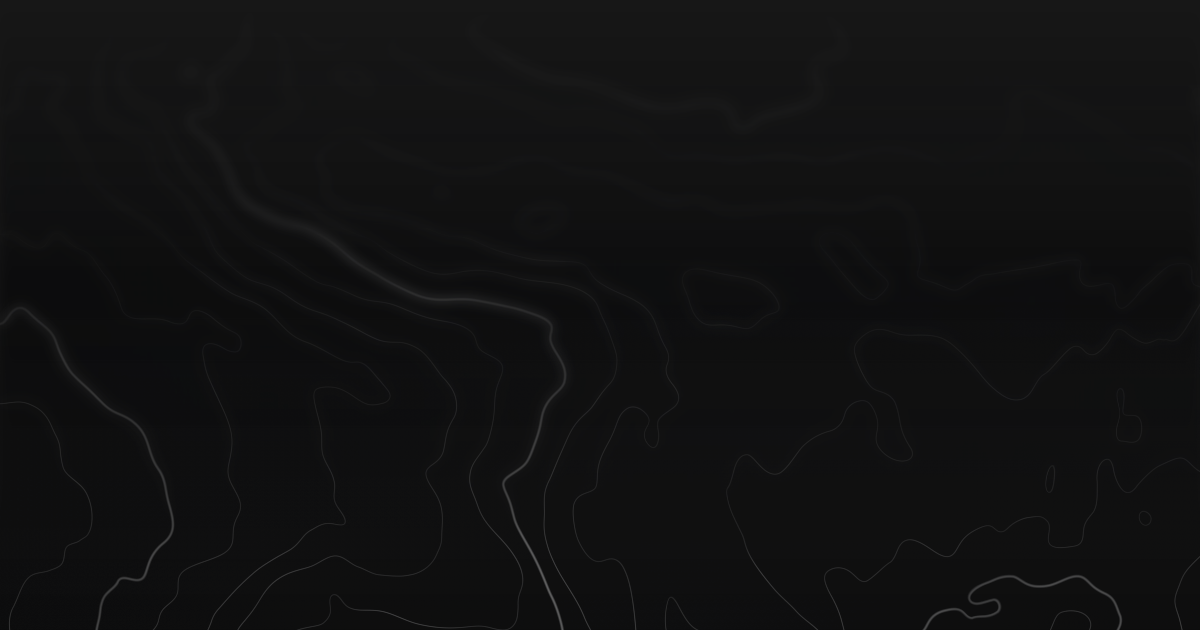
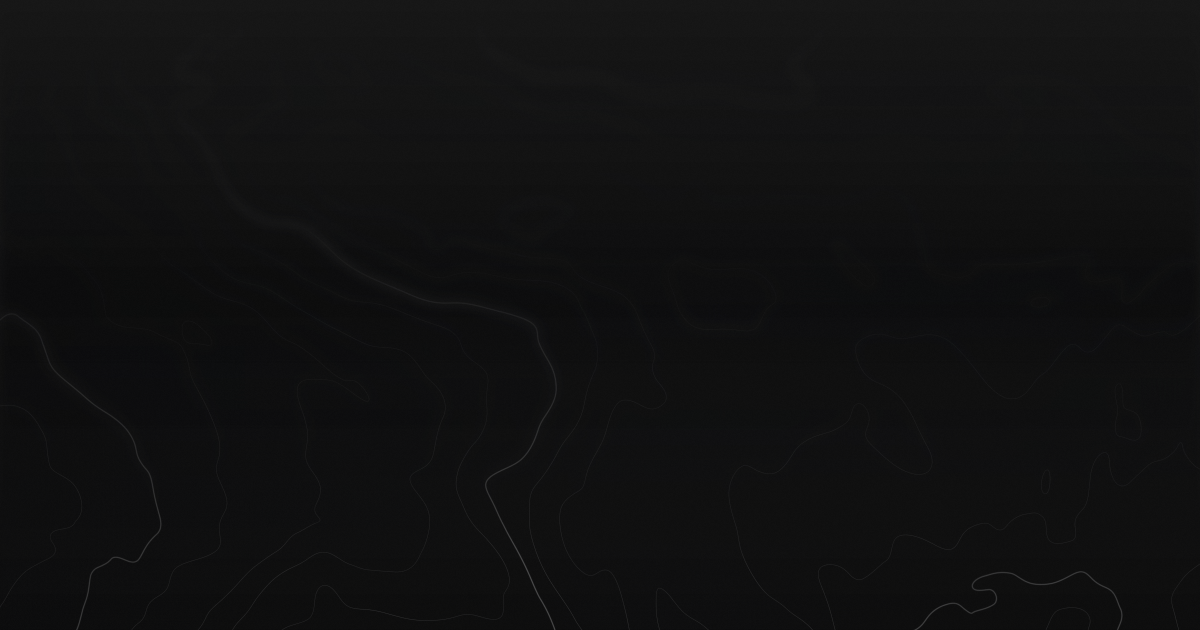
Dither the social cards, set the course card level, drop the dotted frame
- The ground is captured at 2×, each 2×2 block averaged in full precision and rounded with triangular noise, so the blur and fades grain instead of banding; Takumi renders lossless WebP with Floyd–Steinberg dithering over it
- The course card sits level, lit and lifted; the grid's dotted frame is gone

diff --git a/apps/web/src/components/og/dojo-og.tsx b/apps/web/src/components/og/dojo-og.tsx
@@ -3,8 +3,8 @@ import type { ReactNode } from "react";
 /*
  * Dojo.foo's social cards (Takumi): a title over its description, in the site's Inter, on the footer's
  * contour map under a glass-like fade, the logo at the top. A course's card brings the course itself: its color card
- * as the course page shows it, lifted and leaning as if the pointer were over it. Takumi draws flat (no perspective),
- * so the lean is a turn and a skew, the lift a deeper shadow.
+ * as the course page shows it, level and lifted as if the pointer were over it: lit from the top left (a sheen, its rims
+ * catching the light there and in shade below), its edge showing under it, a deep shadow.
  */
 
 export const OG = { width: 1200, height: 630 } as const;
@@ -26,11 +26,6 @@ export function DojoOg({ title, description, logo, ground, groundColor, card }: 
       <img alt="" src={ground} width={OG.width} height={OG.height} style={{ position: "absolute", top: 0, left: 0, width: "100%", height: "100%" }} />
       {/* The fade: clear behind the words, the map showing to the right and below */}
       <div style={{ position: "absolute", inset: 0, backgroundImage: `linear-gradient(100deg, ${groundColor}b3 0%, ${groundColor}80 35%, ${groundColor}1a 65%, ${groundColor}00 100%)` }} />
-      {/* The grid's dotted frame */}
-      <div style={{ position: "absolute", top: 0, bottom: 0, left: 64, width: 1, borderLeft: "1px dotted #44403c" }} />
-      <div style={{ position: "absolute", top: 0, bottom: 0, right: 64, width: 1, borderLeft: "1px dotted #44403c" }} />
-      <div style={{ position: "absolute", left: 0, right: 0, top: 64, height: 1, borderTop: "1px dotted #44403c" }} />
-      <div style={{ position: "absolute", left: 0, right: 0, bottom: 64, height: 1, borderTop: "1px dotted #44403c" }} />
 
       {/* The logo at the top, on the words' edge */}
       <img alt="" src={logo} height={56} width={198} style={{ position: "absolute", top: 98, left: 128, objectFit: "contain", objectPosition: "left" }} />
@@ -74,7 +69,7 @@ export function OgCourseCard({ hue, lines, linesOpacity = 0.55, mark, figure, ki
   const edge = `oklch(0.2 0.08 ${(hue + 40) % 360})`;
   const radius = 6 * u;
   return (
-    <div style={{ position: "relative", display: "flex", transform: "rotate(-1.2deg) skew(-0.4deg, 0.2deg)" }}>
+    <div style={{ position: "relative", display: "flex" }}>
       {/* Its thickness, a little below and to the right of the face */}
       <div style={{ position: "absolute", top: 5, left: 3, width: size, height: size, borderRadius: radius, backgroundColor: edge,
         // Lifted off the page, as under the pointer

diff --git a/apps/web/src/lib/og-image.tsx b/apps/web/src/lib/og-image.tsx
@@ -15,7 +15,8 @@ const getRenderer = () => renderer ??= (async () => {
 export async function ogImage(node: ReactElement) {
   const [{ default: ImageResponse }, takumi] = await Promise.all([import('takumi-js/response'), getRenderer()])
   return new ImageResponse(node, {
-    ...OG, format: 'webp', renderer: takumi,
+    // Lossless, and dithered, so the fades and the card's gradient don't band
+    ...OG, format: 'webp', lossless: true, dithering: 'floyd-steinberg', renderer: takumi,
     headers: { 'Cache-Control': 'public, max-age=0, s-maxage=3600' },
   })
 }
